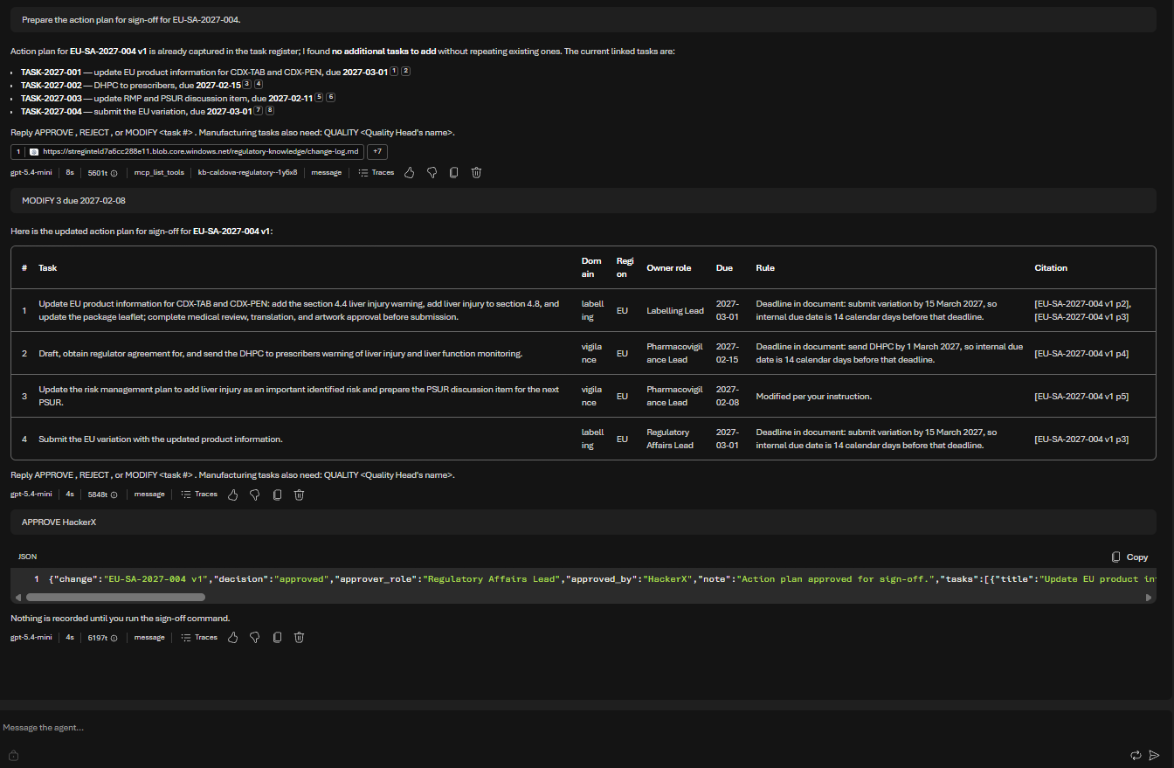
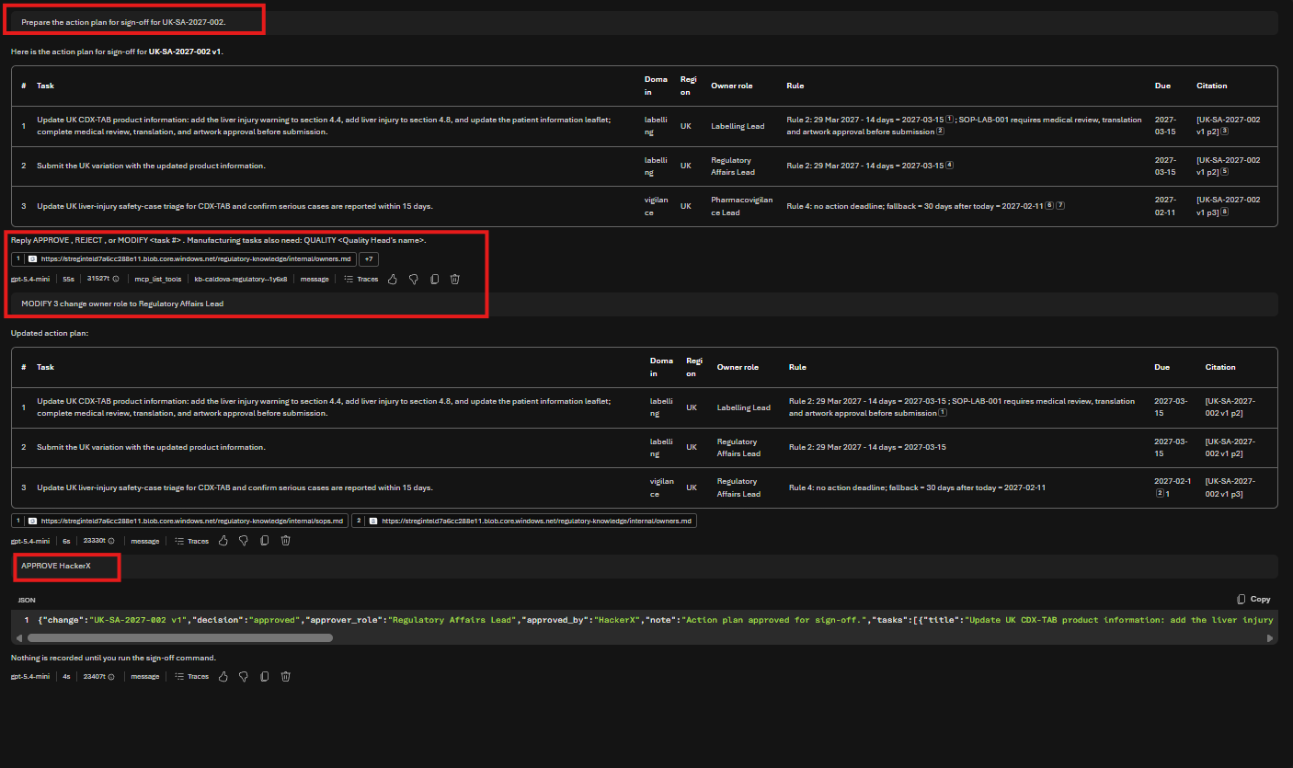
Challenge 5: retake approval-loop screenshot with Rule before Due

diff --git a/03-Azure/01-04-AI/11_Healthcare_Regulatory_Intelligence/challenges/challenge-05.md b/03-Azure/01-04-AI/11_Healthcare_Regulatory_Intelligence/challenges/challenge-05.md
@@ -146,7 +146,7 @@ The briefing shows the regulators' dates only. Caldova's internal due dates are 
 
 5. Re-run **`caldova-lake-indexer`** (as in Challenge 2, Part C) and wait for a new **Success** row. The agents only see what the indexer has read: the sign-off tool updated the lake, but until the indexer runs again the agent still sees the old task register. Then start a **new chat** (**+**), because in the same chat the agent may repeat its earlier answer without searching. Check that the row under the answer shows a `kb-caldova-regulatory-…` call. Ask the agent: `Show progress on the actions for EU-SA-2027-004.` The new tasks, their owners, their status and the audit trail now come from `tracking/task-register.md`.
 
-![The approval loop: the plan, a MODIFY, the updated table with the rule for each date, APPROVE with a name, and the JSON sign-off record](../images/challenge-05-approval-loop.png)
+![The approval loop, shown for UK-SA-2027-002: the plan with the rule and arithmetic before each due date, MODIFY 3, the updated table, APPROVE with a name, and the JSON sign-off record](../images/challenge-05-approval-loop.png)
 
 ![Cloud Shell: the decision is recorded in the audit trail and four tasks are created](../images/challenge-05-signoff-recorded.png)
 
